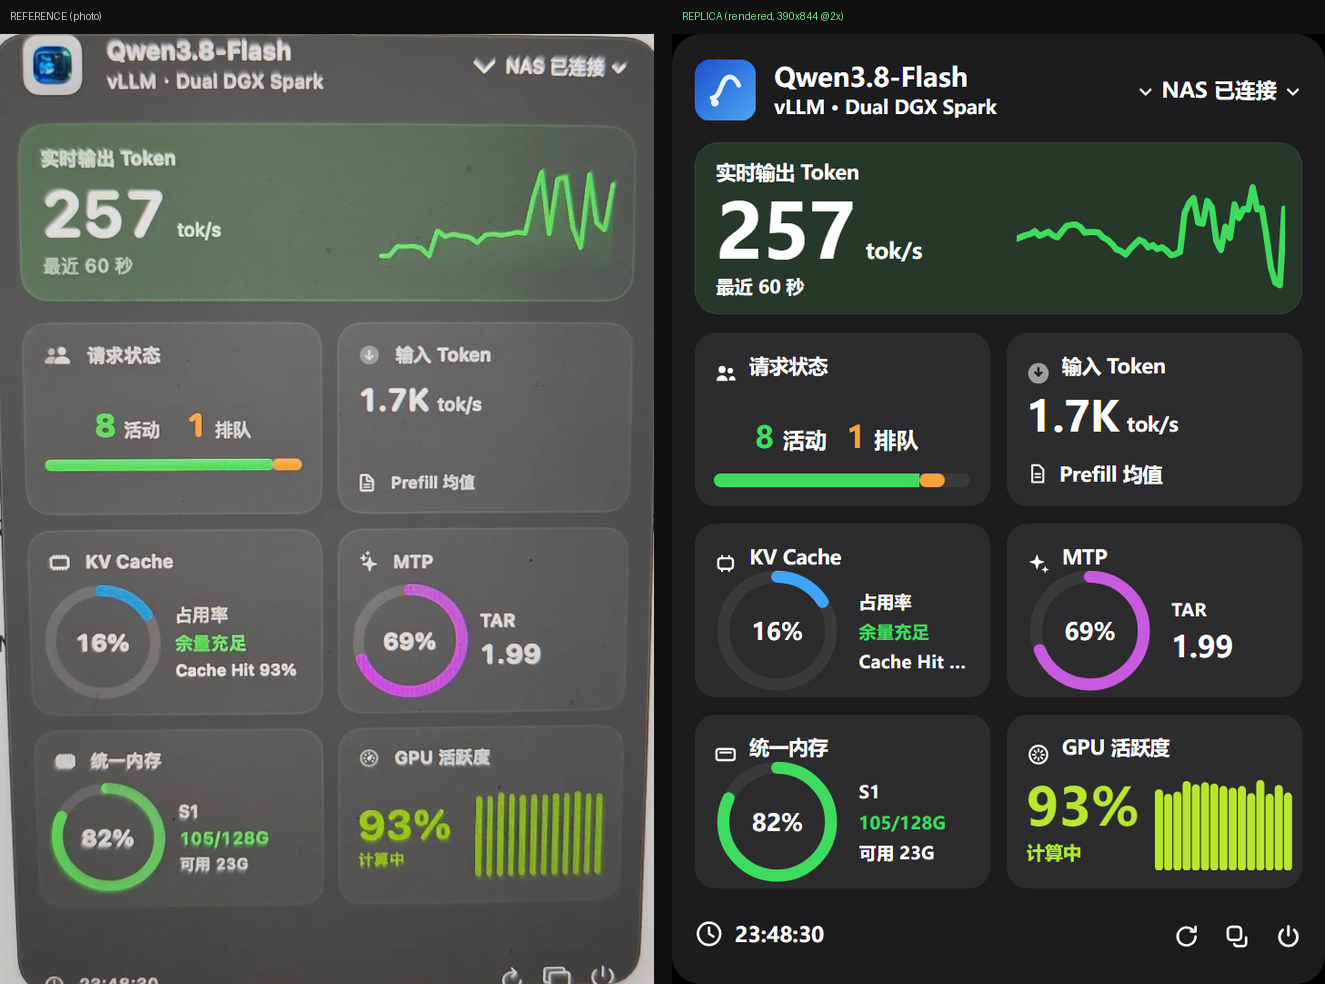
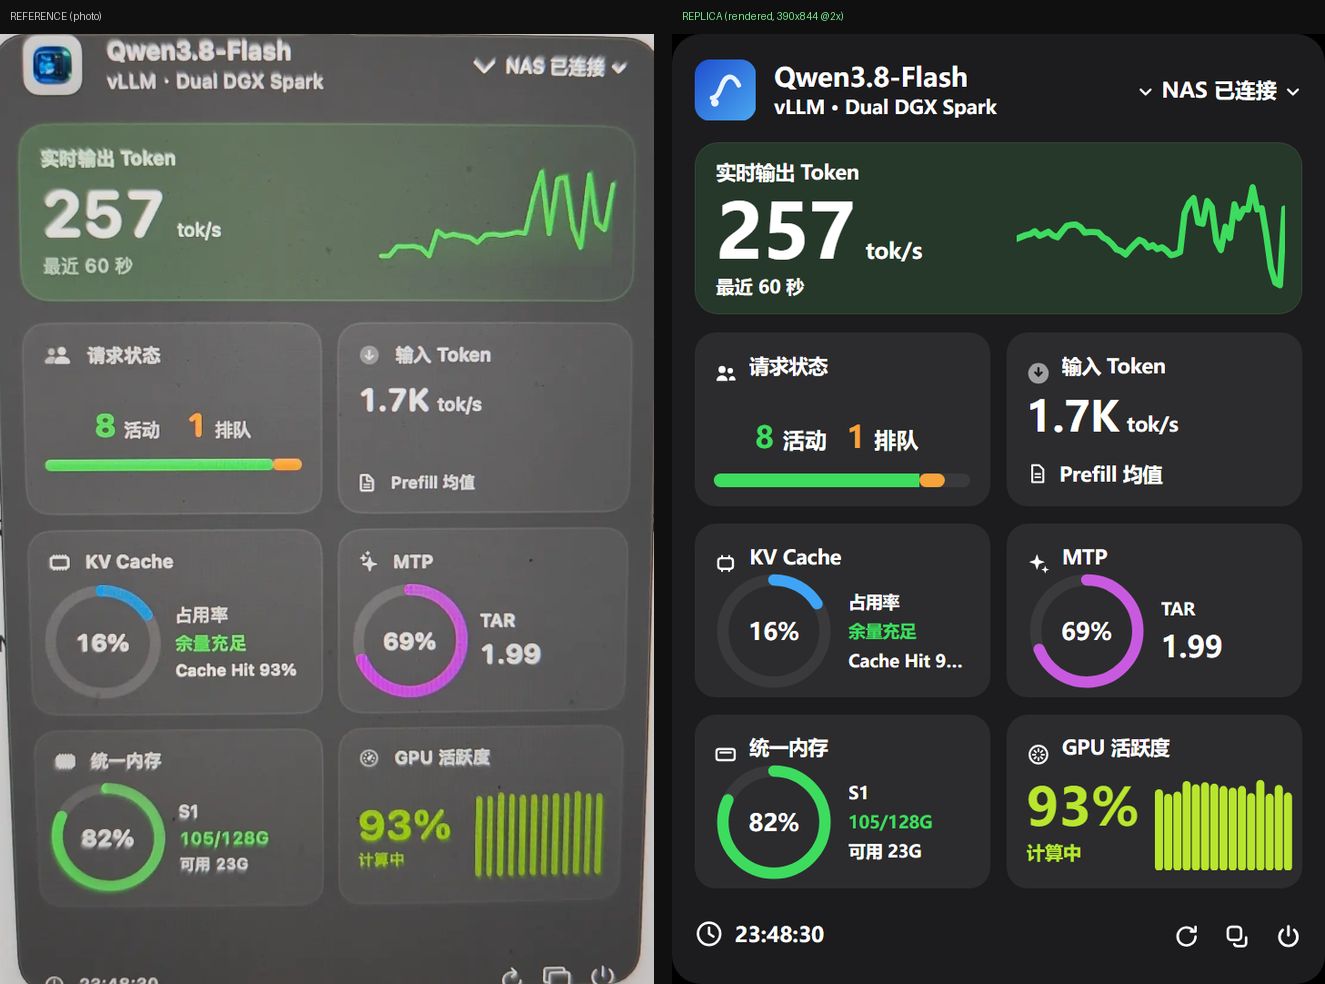
fix: 环形卡尺寸与省略号断言（修复 Cache Hit 文案被截断）

Changed region(s): [[0.557, 0.7622, 0.7117, 0.9146], [0.557, 0.5793, 0.7117, 0.7012], [0.8045, 0.5793, 0.9283, 0.7012]]

diff --git a/llm-monitor.html b/llm-monitor.html
@@ -266,13 +266,13 @@ body {
 .card-body.ring-body {
   flex-direction: row;
   align-items: center;
-  gap: calc(var(--u) * 2.8);
+  gap: calc(var(--u) * 2.2);
 }
 .ring-wrap {
   position: relative;
   flex: 0 0 auto;
-  width: calc(var(--u) * 19.4);
-  height: calc(var(--u) * 19.4);
+  width: calc(var(--u) * 18.4);
+  height: calc(var(--u) * 18.4);
 }
 .ring {
   display: block;
@@ -295,7 +295,7 @@ body {
   display: flex;
   flex-direction: column;
   gap: calc(var(--u) * 1);
-  font-size: calc(var(--u) * 2.7);
+  font-size: calc(var(--u) * 2.6);
   font-weight: 700;
   white-space: nowrap; /* "Cache Hit 93%" 必须单行，否则卡片会被撑高、比例失真 */
   flex: 1 1 auto;
@@ -1351,6 +1351,11 @@ function collectProbe(root, s, stats) {
         value: read('kv-value'),
         headroom: read('kv-headroom'),
         hit: read('kv-hit'),
+        // 省略号兜底很容易把正常文案也吃掉（曾把 "Cache Hit 93%" 截成 "Cache Hit …"），必须断言
+        clipped: (() => {
+          const n = root.querySelector('#kv-hit');
+          return n ? n.scrollWidth > n.clientWidth + 1 : false;
+        })(),
         ratio: arcRatio(root.querySelector('#kv-arc')),
       },
       mtp: {

diff --git a/styles.css b/styles.css
@@ -258,13 +258,13 @@ body {
 .card-body.ring-body {
   flex-direction: row;
   align-items: center;
-  gap: calc(var(--u) * 2.8);
+  gap: calc(var(--u) * 2.2);
 }
 .ring-wrap {
   position: relative;
   flex: 0 0 auto;
-  width: calc(var(--u) * 19.4);
-  height: calc(var(--u) * 19.4);
+  width: calc(var(--u) * 18.4);
+  height: calc(var(--u) * 18.4);
 }
 .ring {
   display: block;
@@ -287,7 +287,7 @@ body {
   display: flex;
   flex-direction: column;
   gap: calc(var(--u) * 1);
-  font-size: calc(var(--u) * 2.7);
+  font-size: calc(var(--u) * 2.6);
   font-weight: 700;
   white-space: nowrap; /* "Cache Hit 93%" 必须单行，否则卡片会被撑高、比例失真 */
   flex: 1 1 auto;

diff --git a/src/render.js b/src/render.js
@@ -299,6 +299,11 @@ export function collectProbe(root, s, stats) {
         value: read('kv-value'),
         headroom: read('kv-headroom'),
         hit: read('kv-hit'),
+        // 省略号兜底很容易把正常文案也吃掉（曾把 "Cache Hit 93%" 截成 "Cache Hit …"），必须断言
+        clipped: (() => {
+          const n = root.querySelector('#kv-hit');
+          return n ? n.scrollWidth > n.clientWidth + 1 : false;
+        })(),
         ratio: arcRatio(root.querySelector('#kv-arc')),
       },
       mtp: {

diff --git a/tools/probe.js b/tools/probe.js
@@ -151,6 +151,7 @@ function checkCards(p) {
   eq('KV Cache：中心值', c.kv.value, '16%');
   eq('KV Cache：余量文案', c.kv.headroom, '余量充足');
   eq('KV Cache：命中率', c.kv.hit, 'Cache Hit 93%');
+  eq('KV Cache：命中率文案不得被省略号截断', c.kv.clipped, false);
   near('KV Cache：弧比例', c.kv.ratio, 0.16, 0.01);
   eq('MTP：中心值', c.mtp.value, '69%');
   near('MTP：弧比例', c.mtp.ratio, 0.69, 0.01);
